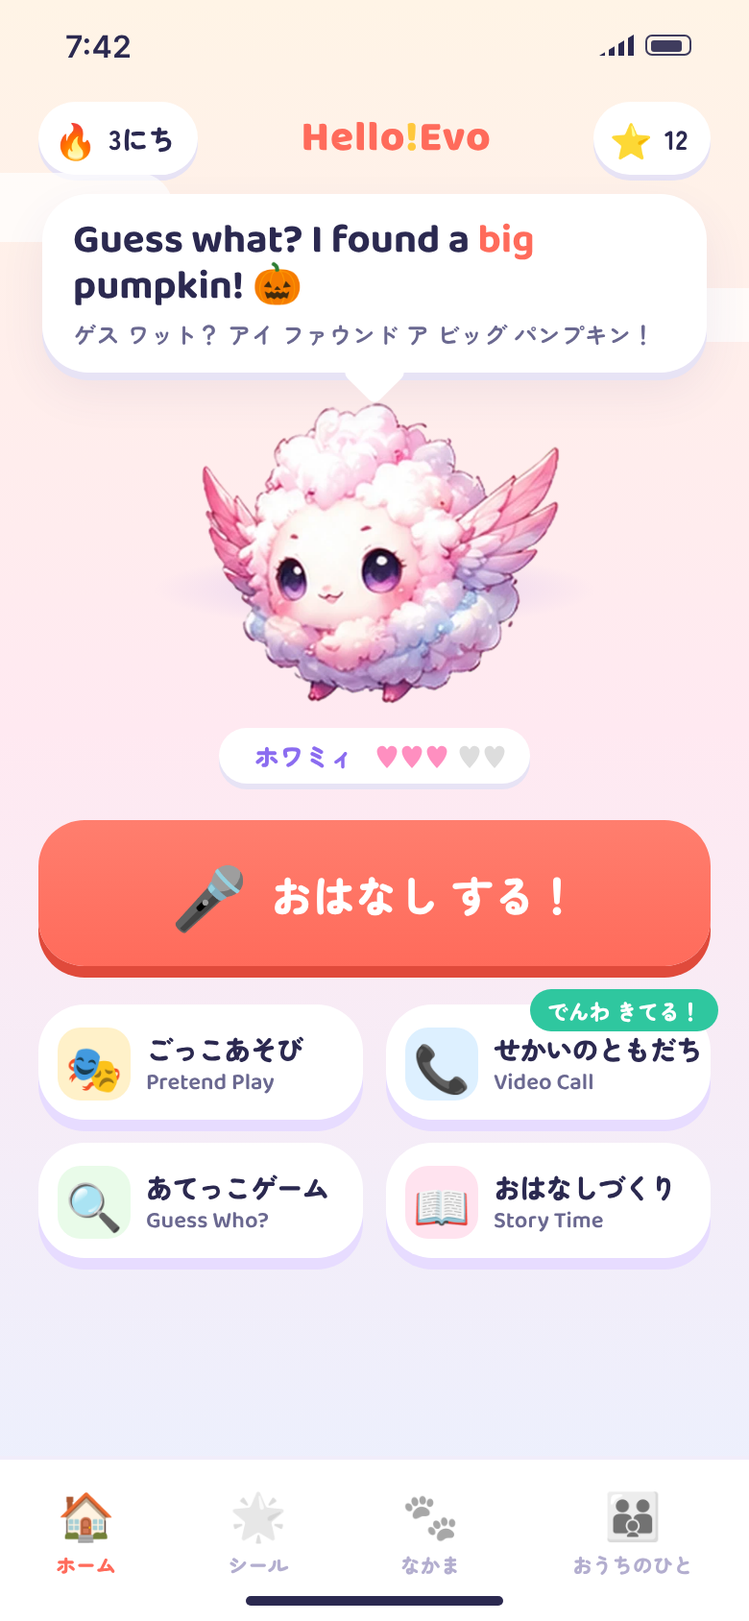
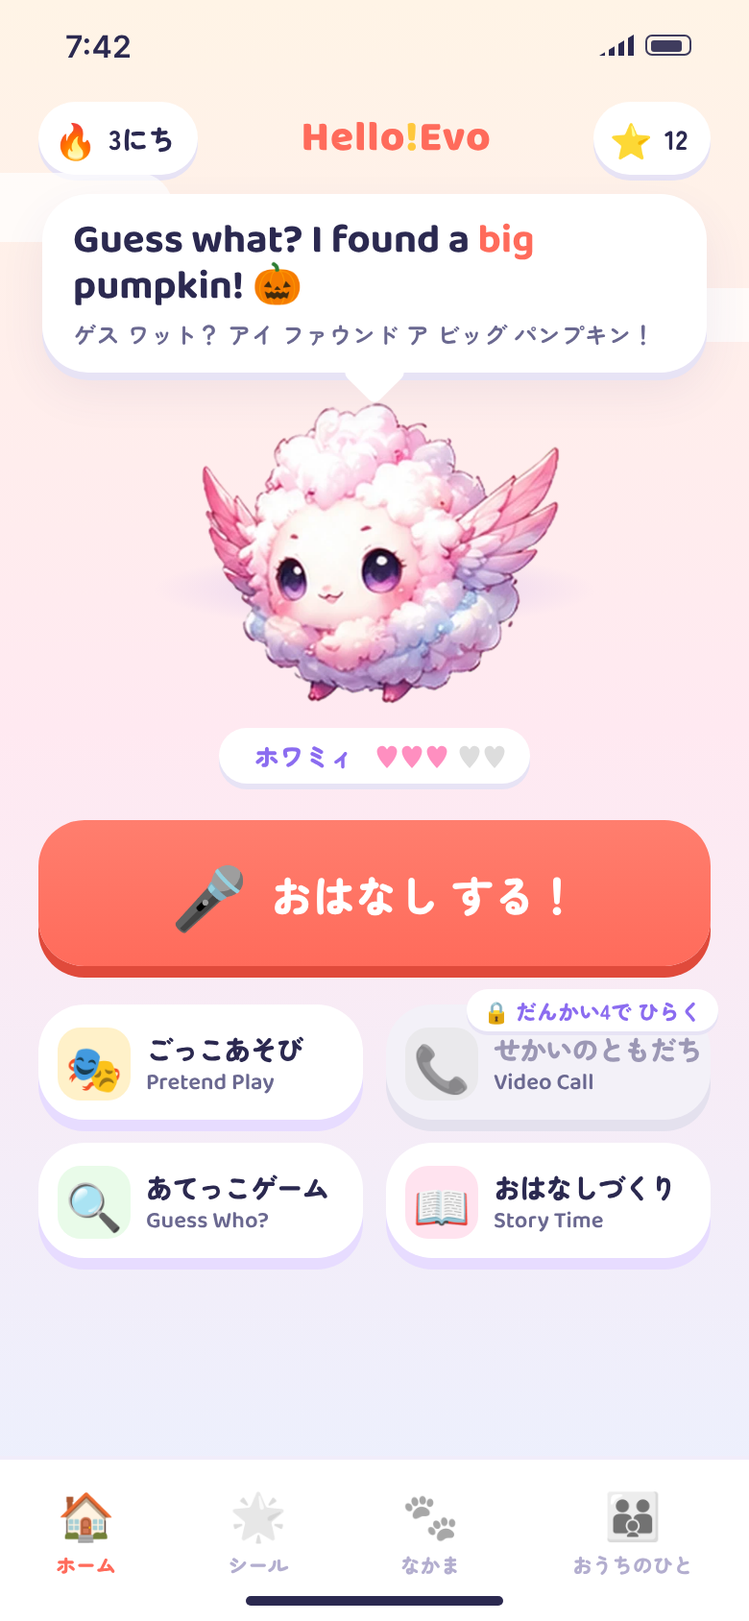
Reflect alignment decisions in concept and mockups
Claude-Session: https://claude.ai/code/session_014T7QHR48QuUwweHniSWVgv

Changed region(s): [[0.6462, 0.5853, 0.9538, 0.6777], [0.5538, 0.6469, 0.6154, 0.6777]]

diff --git a/design/mockups/mockups.html b/design/mockups/mockups.html
@@ -44,9 +44,49 @@ body{background:#1d1b33;font-family:"Zen Maru Gothic",sans-serif;color:var(--ink
 </head>
 <body>
 
+
+<!-- ============ 0. SETUP ============ -->
+<div class="wrap" id="s0">
+<div class="label">⓪ はじめての設定<small>あだなを決めて、相棒をえらぶ</small></div>
+<div class="phone" style="background:linear-gradient(180deg,#FFF4E6 0%,#FFE9F1 50%,#E9F1FF 100%)">
+  <div class="status"><span>7:40</span><span class="r"><i class="sig"></i><i class="bat"></i></span></div>
+  <div style="text-align:center;margin-top:18px">
+    <div style="font:800 34px 'Baloo 2';color:var(--coral);line-height:1">Nice to meet you!</div>
+    <div style="font-weight:900;font-size:16px;margin-top:6px">はじめまして！ なんて よんだら いい？</div>
+  </div>
+  <div style="margin:22px 24px 0;background:#fff;border-radius:24px;padding:16px 18px;box-shadow:0 5px 0 var(--line)">
+    <div style="font-size:12px;font-weight:900;color:var(--ink2)">あだな</div>
+    <div style="display:flex;align-items:center;justify-content:space-between;margin-top:4px">
+      <div style="font-size:30px;font-weight:900">そうちゃん<span style="display:inline-block;width:3px;height:30px;background:var(--coral);vertical-align:middle;margin-left:3px;border-radius:2px"></span></div>
+      <div style="font-size:22px">🔊</div>
+    </div>
+    <div class="en" style="font-size:14px;color:var(--grape);font-weight:700;margin-top:4px">“Hi, Sou-chan! Let's be friends!”</div>
+  </div>
+  <div style="text-align:center;font-weight:900;font-size:16px;margin-top:26px">いっしょに はなす あいぼうを えらぼう</div>
+  <div style="display:grid;grid-template-columns:1fr 1fr;gap:14px;padding:14px 24px 0">
+    <div style="background:linear-gradient(180deg,#FFF0F7,#fff);border-radius:26px;padding:10px 10px 14px;text-align:center;box-shadow:0 6px 0 var(--pink-d);outline:4px solid var(--pink);position:relative">
+      <span class="tag" style="position:absolute;top:-10px;left:50%;transform:translateX(-50%);background:var(--pink);color:#fff">✓ えらんだ</span>
+      <img src="img/m049.webp" style="width:130px;margin-top:6px">
+      <div style="font-weight:900;font-size:18px">ホワミィ</div>
+      <div style="font-size:11.5px;font-weight:700;color:var(--ink2);line-height:1.4">ふわふわ やさしい<br>あまいもの だいすき</div>
+    </div>
+    <div style="background:linear-gradient(180deg,#FFF1E6,#fff);border-radius:26px;padding:10px 10px 14px;text-align:center;box-shadow:0 6px 0 #F0D2BC">
+      <img src="img/m186.webp" style="width:140px;margin-top:2px">
+      <div style="font-weight:900;font-size:18px">ニジリュウガ</div>
+      <div style="font-size:11.5px;font-weight:700;color:var(--ink2);line-height:1.4">げんきな ぼうけんか<br>ちょっと ドジ</div>
+    </div>
+  </div>
+  <div style="font-size:12px;font-weight:700;color:var(--ink2);text-align:center;margin-top:14px">あいぼうは あとから いつでも かえられるよ</div>
+  <div style="padding:20px 24px 0">
+    <div class="press" style="--d:var(--coral-d);background:linear-gradient(180deg,#FF7E6E,var(--coral));color:#fff;height:66px;display:grid;place-items:center;font-weight:900;font-size:20px">はじめる！</div>
+  </div>
+  <div class="homebar"></div>
+</div>
+</div>
+
 <!-- ============ 1. HOME ============ -->
 <div class="wrap" id="s1">
-<div class="label">① ホーム<small>相棒が自分から話しかけてくる。毎回ちがう話題</small></div>
+<div class="label">① ホーム<small>相棒が自分から話しかけてくる。毎回ちがう話題。せかいのともだちは段階4で解放</small></div>
 <div class="phone">
   <div class="cloud" style="width:120px;height:36px;top:90px;left:-30px"></div>
   <div class="cloud" style="width:90px;height:28px;top:150px;right:-20px"></div>
@@ -81,10 +121,10 @@ body{background:#1d1b33;font-family:"Zen Maru Gothic",sans-serif;color:var(--ink
       <div style="flex:none;font-size:24px;width:38px;height:38px;border-radius:12px;background:#FFF1C9;display:grid;place-items:center">🎭</div>
       <div><div style="font-weight:900;font-size:14px;white-space:nowrap;letter-spacing:-.03em">ごっこあそび</div><div class="en" style="font-size:12px;color:var(--ink2);font-weight:600;margin-top:-2px">Pretend Play</div></div>
     </div>
-    <div class="press" style="--d:#E7DCFF;background:#fff;padding:12px 10px 10px;display:flex;gap:8px;align-items:center;position:relative">
-      <div style="flex:none;font-size:24px;width:38px;height:38px;border-radius:12px;background:#DDF0FF;display:grid;place-items:center">📞</div>
+    <div class="press" style="--d:#E4E1EE;background:#F3F1F8;padding:12px 10px 10px;display:flex;gap:8px;align-items:center;position:relative;color:#9C98B5">
+      <div style="flex:none;font-size:24px;width:38px;height:38px;border-radius:12px;background:#E6E3EF;display:grid;place-items:center;filter:grayscale(1);opacity:.6">📞</div>
       <div><div style="font-weight:900;font-size:14px;white-space:nowrap;letter-spacing:-.03em">せかいのともだち</div><div class="en" style="font-size:12px;color:var(--ink2);font-weight:600;margin-top:-2px">Video Call</div></div>
-      <span class="tag" style="position:absolute;top:-8px;right:-4px;background:var(--mint);color:#fff">でんわ きてる！</span>
+      <span class="tag" style="position:absolute;top:-8px;right:-4px;background:#fff;color:var(--grape);box-shadow:0 2px 0 var(--line)">🔒 だんかい4で ひらく</span>
     </div>
     <div class="press" style="--d:#E7DCFF;background:#fff;padding:12px 10px 10px;display:flex;gap:8px;align-items:center">
       <div style="flex:none;font-size:24px;width:38px;height:38px;border-radius:12px;background:#E9FBE9;display:grid;place-items:center">🔍</div>
@@ -108,7 +148,7 @@ body{background:#1d1b33;font-family:"Zen Maru Gothic",sans-serif;color:var(--ink
 
 <!-- ============ 2. TALK ============ -->
 <div class="wrap" id="s2">
-<div class="label">② おしゃべり中<small>言い直しで返す・ヒントはカタカナと絵・大きなマイク</small></div>
+<div class="label">② おしゃべり中<small>言い直しで返す・読みはタップで ひらがな→カタカナ→なし・大きなマイク</small></div>
 <div class="phone" style="background:linear-gradient(180deg,#FFF0E0 0%,#FFE6F0 55%,#F2EBFF 100%)">
   <div class="status"><span>7:44</span><span class="r"><i class="sig"></i><i class="bat"></i></span></div>
   <div class="top" style="padding-top:2px">
@@ -121,7 +161,7 @@ body{background:#1d1b33;font-family:"Zen Maru Gothic",sans-serif;color:var(--ink
     <img src="img/m049.webp" style="width:82px;margin-bottom:-6px">
     <div class="bubble" style="flex:1;padding:10px 14px;border-bottom-left-radius:6px">
       <div class="en" style="font-size:17px;font-weight:700;line-height:1.2">Guess what? I found a big pumpkin! Do you like pumpkins?</div>
-      <div class="kana">ゲス ワット？ アイ ファウンド ア ビッグ パンプキン！ ドゥ ユー ライク パンプキンズ？</div>
+      <div class="kana"><span class="tag" style="background:#F1ECFF;color:var(--grape);padding:1px 7px;margin-right:4px">あ</span>げす わっと？ あい ふぁうんど あ びっぐ ぱんぷきん！ どぅ ゆー らいく ぱんぷきんず？</div>
     </div>
   </div>
 
@@ -136,7 +176,7 @@ body{background:#1d1b33;font-family:"Zen Maru Gothic",sans-serif;color:var(--ink
     <img src="img/m049.webp" style="width:82px;margin-bottom:-6px;transform:rotate(-6deg)">
     <div class="bubble" style="flex:1;padding:10px 14px;border-bottom-left-radius:6px;outline:3px solid #FFD6E7">
       <div class="en" style="font-size:17px;font-weight:700;line-height:1.2"><span style="background:#FFF1B8;border-radius:6px;padding:0 3px">You like Halloween!</span> Me too! What do you want to be?</div>
-      <div class="kana">ユー ライク ハロウィン！ ミー トゥー！ ワット ドゥ ユー ウォント トゥ ビー？</div>
+      <div class="kana"><span class="tag" style="background:#F1ECFF;color:var(--grape);padding:1px 7px;margin-right:4px">ア</span>ユー ライク ハロウィン！ ミー トゥー！ ワット ドゥ ユー ウォント トゥ ビー？</div>
       <div class="ja">ハロウィン好きなんだね！ぼくも！なにになりたい？</div>
       <div style="position:absolute;right:10px;top:-14px;width:32px;height:32px;border-radius:50%;background:var(--grape);color:#fff;display:grid;place-items:center;font-size:15px;box-shadow:0 3px 0 var(--grape-d)">🔊</div>
     </div>
@@ -169,7 +209,7 @@ body{background:#1d1b33;font-family:"Zen Maru Gothic",sans-serif;color:var(--ink
 
 <!-- ============ 3. VIDEO CALL ============ -->
 <div class="wrap" id="s3">
-<div class="label">③ せかいのともだち（でんわ）<small>外国の友だちから電話がくる。ドキドキ感と「通じた！」体験</small></div>
+<div class="label">③ せかいのともだち（段階4で解放）<small>普通に話せるようになったら、外国の友だちから電話がくる</small></div>
 <div class="phone" style="background:radial-gradient(120% 70% at 50% 30%,#3B2B7A 0%,#1E1745 60%,#120E2C 100%);color:#fff">
   <div class="status" style="color:#fff"><span>18:05</span><span class="r"><i class="sig"></i><i class="bat"></i></span></div>
   <div style="position:absolute;inset:0;background-image:radial-gradient(#fff 1px,transparent 1.5px);background-size:46px 46px;opacity:.15"></div>

diff --git a/docs/CONCEPT.md b/docs/CONCEPT.md
@@ -1,123 +1,141 @@
 # mana-evo-english コンセプト
 
-最終更新: 2026-10-17
+最終更新: 2026-10-17（モックアップ確認後の決定を反映）
 
 ## 1. 目的
 
-- 年長の子どもが、**毎日5分ほどモンスターと英語でおしゃべり**して、「単語を言える」から「やりとりができる」へ進むこと
+- 年長の子どもが、**毎日モンスターと英語でおしゃべり**して、「単語を言える」から「やりとりができる」へ進むこと
+- ゴールは「英語って簡単じゃん！外国の人と話してみたい！」と思えるようになること
+- 決まりきったやりとりを毎日こなして点数を稼ぐアプリにはしない。**毎回ちがう、自然な会話**をする
 - 英語が苦手な保護者も、記録と訳を見ながら**一緒に覚えられる**こと
 - mana-evo の英語部分に特化した姉妹アプリとして、モンスターや進捗をつなげていくこと
 
-## 2. 前提
+## 2. 決定事項
 
 | 項目 | 決定 |
 |---|---|
 | 端末 | iPhone（mana-evo と同じ端末）、ホーム画面に追加する PWA |
-| AI | Gemini API **無料枠**。Flash-Lite 系（3.1 Flash-Lite を想定）。モデル名は設定で差し替えられるようにする |
-| 個人情報 | 会話の中身は日常の話題だけ。無料枠の規約（データが改善目的に使われうる）は了承済み。それでも名前・住所・園名などは AI に送らない設計にする |
-| 文字 | 子どもはひらがな・カタカナが読める → ヒントは「絵＋カタカナ読み＋音声」 |
-| mana-evo との関係 | 最初は**モンスター画像を借りるだけ**。Supabase を使ったデータ連携は issue で別途進める |
+| 名前 | リポジトリと URL は `mana-evo-english`。ホーム画面の表示名は短くする（iPhone は長い名前が「…」で切れるため）。案：「マナエボ英語」 |
+| AI | Gemini API **無料枠**。メインは 3.1 Flash-Lite。上限に達したら 3.5 Flash-Lite に切り替え、それも上限なら「きょうは おしまい」 |
+| 1日の上限 | アプリ側では設けない（上のモデル切り替えで自然に止まる） |
+| 個人情報 | 会話は日常の話題だけ。無料枠の規約（データが改善目的に使われうる）は了承済み |
+| モンスター | 可愛い系：**ホワミィ**（m049）／かっこいい最終形：**ニジリュウガ**（m186）。どちらも mana-evo の画像を借りる |
+| あだな | 最初の起動時に子どもの呼び名を決める。モンスターが会話の中で呼ぶ。保護者画面で変更可 |
+| 保護者画面 | mana-evo と同じ、**4桁の PIN** でロック |
+| mana-evo との関係 | 最初はモンスター画像を借りるだけ。Supabase の連携は issue #1 で別途進める |
 
-## 3. 子どもが段階的に進む流れ
+## 3. 子どもが進む段階とアプリのふるまい
 
-1. 聞いて分かる（Yes/No、指差し）
-2. 選んで答える（"Dog or cat?" → "Dog!"）
-3. 単語で答える → AI が文にして言い直す
-4. 決まった言い回しの中身を入れ替える（I like ___ / I want ___ / Can I ___?）
-5. 自分で文を作る
+| 段階 | 子どもの状態 | 日本語で答えたとき | 読みの補助 |
+|---|---|---|---|
+| 1 聞く | Yes/No、指差し | 分かってくれる。返すのは必ず英語 | ひらがな／カタカナ（タップで切替） |
+| 2 選ぶ | "Dog or cat?" → "Dog!" | 同上 | 同上 |
+| 3 単語 | 単語で答える → 文にして言い直してもらう | 同上 | 同上。慣れたら自動で消える（タップで出せる） |
+| 4 型で文 | I like ___ / I want ___ を入れ替える | 同上 | 消える（タップで出せる） |
+| 5 自由に（英検3級くらい〜） | 自分で文を作る | **全部英語**。日本語には英語で聞き返す | 発音記号（タップで出せる） |
 
-アプリは2〜4の段階の繰り返し量を毎日確保することに集中する。
+- 段階は会話の中身（英語で返せた割合、文の長さ）から自動で上がる。保護者画面で手動でも変えられる
+- 読みの補助は、英文の下の小さな行をタップするたびに **ひらがな → カタカナ → なし** と切り替わる。子どもが読みやすい方を選べる
+- 「慣れたら消す」の判定：同じ言い回しを英語で何度か言えたら、その言い回しの読みは最初から隠す
 
-## 4. 会話の作り方：台本＋AIのハイブリッド
+## 4. モード
 
-### 台本（アプリが持つデータ）
+モードはデータで定義して、あとから足していける作りにする（7章）。
 
-- **場面**：あいさつ／好きな動物／朝ごはん／お天気／色／今日なにした？ など
-- 場面ごとに**練習する言い回しを2〜3個**、質問を3〜5個、締めのセリフ
-- ヒント選択肢（絵文字か画像＋英語＋カタカナ読み＋音声）
-- 同じ場面が日を空けて何度も出てくる（言い回しを間隔をあけて復習する）
+| モード | 内容 | 最初のリリース |
+|---|---|---|
+| **おしゃべり** Free Talk | 相棒が自分の出来事や季節の話から話しかけてくる。話題は毎回ちがう | ○ |
+| **ごっこあそび** Pretend Play | お店、空港、おいしゃさんなど。場面 × 役割（お客さん／店員さん）× ハプニングで毎回ちがう展開 | ○ |
+| **あてっこゲーム** Guess Who? | "Is it big?" "Can it fly?" で、相棒が考えている動物やものを当てる（逆もあり）。段階1〜2でも遊べる | ○ |
+| **おはなしづくり** Story Time | 相棒と交代で、1文ずつおはなしを作る | 次の段階 |
+| **せかいのともだち** Video Call | 外国の友だちから電話がくる。ネイティブらしい言い回しやアクセントにふれる | **段階4以上で解放**（普通に話せるようになってからのごほうび） |
+| 親子モード | 親がモンスター役を読む／親子で交代して答える | ○（保護者画面から） |
+| 大人の練習 | 大人向けの場面（仕事、旅行、子どもへの声かけ） | ○（保護者画面から） |
+
+## 5. 会話の作り方：AIが会話し、データが方向づける
+
+自然な会話はAIに任せる。データ（シード）は「何について話すか」の種と、「その子に合った難しさ」だけを決める。
+
+### シード（アプリが持つデータ）
+
+- **話題の種**：季節、相棒の出来事（"I found a big pumpkin!"）、食べもの、動物、あそび、きょうの出来事 など
+- **場面**（ごっこあそび）：場面ごとの役割、ハプニング、使えそうな言い回しの例
+- **相棒の性格**：ホワミィ（ふわふわ、やさしい、甘いもの好き）／ニジリュウガ（元気、冒険好き、ちょっとドジ）
+- **段階ごとの話し方のルール**：文の長さ、質問の形（選択式／オープン）、日本語への対応
 
 ### AI の役割（Gemini）
 
 - 子どもの返事（音声）を聞き取る。単語だけ、日本語混じり、発音があいまいでもOK
-- **言い直して返す**（間違いだと言わず、正しい英語で言い返す）
-  - 子「どっぐ！」→ "Oh, you like **dogs**! Me too! What color is your dog?"
-- 台本の次の質問へ自然につなぐ。話題がそれたら優しく戻す
+- **言い直して返す**（間違いと言わず、正しい英語で言い返す）
+  - 子「きょうりゅう！」→ "Oh, you want to be **a dinosaur**! Roar! That's so cool!"
+- 話題がそれても、子どもの興味についていく（自然な会話を優先）
+- **相棒の記憶**：子どもが話したこと（好きなもの、なりたいもの、出来事）を少しずつ覚えて、次の会話で聞いてくる
 - 応答は JSON で受け取る：
 
 ```json
 {
-  "child_said": "dog",
-  "reply_en": "Oh, you like dogs! Me too! What color is your dog?",
-  "reply_ja": "犬が好きなんだね！ぼくも！きみの犬は何色？",
-  "used_target": true,
-  "next_step": "ask_color",
-  "hint_options": [
-    { "en": "brown", "kana": "ブラウン", "emoji": "🟤" },
-    { "en": "white", "kana": "ホワイト", "emoji": "⚪" }
-  ]
+  "child_said": "きょうりゅう",
+  "child_lang": "ja",
+  "reply_en": "Oh, you want to be a dinosaur! Roar! What color is your dinosaur?",
+  "reply_kana": "オー、ユー ウォント トゥ ビー ア ダイナソー！ ロアー！ ...",
+  "reply_ipa": "",
+  "reply_ja": "恐竜になりたいんだね！ガオー！きみの恐竜は何色？",
+  "recast": "I want to be a dinosaur.",
+  "spoke_english": false,
+  "memory": ["wants to be a dinosaur"],
+  "hints": [
+    { "en": "green", "kana": "グリーン", "emoji": "🟢" },
+    { "en": "red", "kana": "レッド", "emoji": "🔴" }
+  ],
+  "end": false
 }
 ```
 
-- 毎回送るのは「場面の指示＋今日の言い回し＋直近3〜4往復」だけ。トークン数を小さく抑える
+- 毎回送るのは「モード・シード・段階のルール・相棒の記憶・直近の数往復」だけ
 
-### AI が使えないとき
+### 上限に達したとき
 
-- 無料枠の上限、通信エラー、タイムアウトのときは**台本だけで進むモード**に自動で切り替える（ヒントボタンを選んで進む）
-- 子どもの体験が止まらないことを優先する
-
-## 5. 無料枠で回すための設計
-
-- 1回の会話は**最大およそ15往復**、1日の回数にも上限を設定する（値は設定で変えられる）
-  - 無料枠の1日あたり・1分あたりのリクエスト数制限は Google AI Studio で最新の値を確認し、それより十分小さく設定する
-- 音声は「おしてはなす」で区切った短い録音だけを送る（長くても5〜8秒程度）
-- **APIキーはアプリ内に置かない**。Supabase Edge Function を中継に使い、キーは Edge Function の secret に置く
-  - 中継は Supabase のログイン（JWT）がある人だけ使える → 他人に無料枠を使われない
-  - 中継側でも1日の上限を数えて超えたら止める
+1. 3.1 Flash-Lite が上限（429）→ 自動で 3.5 Flash-Lite に切り替えて続ける
+2. 3.5 Flash-Lite も上限 → 相棒が眠そうに「きょうは おしまい。また あした！」で終了
+3. 通信エラーやタイムアウトは、もう一度話してもらう案内を出す
 
 ## 6. 声まわり（iPhone PWA）
 
 | | 方針 |
 |---|---|
-| 聞き取り | `MediaRecorder` で録音 → 音声をそのまま Gemini へ。聞き取りと返事作りを1回で済ませる |
-| 読み上げ | まず iOS 標準の英語音声（Web Speech API の speechSynthesis）。物足りなければ piper の英語モデルを端末内で使う（mana-evo のつくよみちゃんと同じ仕組み） |
-| 操作 | 画面下に大きな「おしてはなす」ボタン |
-| 注意 | iOS の PWA はマイク許可やオーディオの再生開始にユーザー操作が必要。最初の画面で一度タップしてもらう |
+| 聞き取り | 「おしながら はなす」で録音（16kHz の WAV）→ そのまま Gemini へ。聞き取りと返事作りを1回で済ませる |
+| 読み上げ | iOS 標準の英語音声（speechSynthesis）。相棒ごとに声の高さと速さを変える。段階が低いほどゆっくり |
+| 文字入力 | 大人の練習や、声が出しにくいとき用にキーボード入力も用意 |
+| 注意 | iOS の PWA はマイク許可や音の再生開始にタップが必要。最初の画面で一度タップしてもらう |
 
-## 7. 続けたくなる仕掛け
+## 7. バリエーションを増やす仕組み
 
-- **mana-evo のモンスターが話し相手**。「英語の国から来た」という設定で、話すほど「なかよし度」が上がる
-- 1回3〜5分で終わる
-- 「今日言えたフレーズ」をシールとして集める
-- その日に話した相手モンスターをシール帳に残す
+- モード、話題の種、場面、ハプニング、相棒の性格を **データファイル** で持つ
+- 会話の指示文はこれらを組み合わせて毎回作る → 組み合わせの数だけ会話が変わる
+- 新しい場面を足すときは、データを1つ追加するだけでよい
+- 新しい相棒も、mana-evo の画像と性格データを足せば増やせる（Supabase 連携後は、mana-evo で捕まえたモンスターから選べるようにする）
 
-## 8. 保護者の機能
+## 8. 続けたくなる仕掛け
 
-- **保護者画面**：会話ログ（英語＋日本語訳）、今日言えたこと、練習中の言い回し
-- **おうち英語カード**：今日の言い回しと、親が家で使えるひとこと
-- **親子モード**：親がモンスター役のセリフを読む／親子交代で答える
-- **大人モード**：同じ仕組みで大人向けの場面（仕事、旅行、子どもへの声かけ）の会話練習
+- 相棒が**自分から話しかけてくる**（毎回ちがう話題）
+- 相棒が**子どもの話を覚えていて**、次に聞いてくる
+- 「なかよし度」が上がる
+- 「きょう いえた えいご」を褒める。はじめて言えた表現には印がつく
+- シールを集める
 
-## 9. mana-evo との連携（段階的に）
+## 9. 保護者の機能
 
-1. **今回**：mana-evo のモンスター画像を借りて話し相手にする（mana-evo 側は変更しない）
-2. **次の段階**（issue で管理）：Supabase `app-save-hub` を通したデータ連携
-   - `app_saves` は `user_id + app_id + slot_id` で分かれているので、同じアカウントでログインすれば英語アプリが mana-evo のセーブ（手持ちモンスターなど）を**読むだけ**で使える
-   - 英語アプリは自分の `app_id` に進捗を書き込む
-   - 会話のごほうびを mana-evo に渡す場合は、mana-evo 側の仕様変更として先に合意してから実装する（mana-evo の方針どおり）
+- **会話ログ**（英語＋日本語訳、英語で返せたか／日本語を言い直してもらったか）
+- **いまの段階**と、手動での変更
+- **おうち英語カード**：今日の会話から、家で使えるひとこと
+- **親子モード**、**大人の練習**
+- あだなの変更、PIN の変更
 
-## 10. 最初に作るもの（MVP）
+## 10. 技術構成
 
-1. 場面5つ × 言い回し各3つの台本データ
-2. モンスター1体との会話画面（録音 → Edge Function → Gemini → 返事を読み上げ。ヒントボタンつき）
-3. 今日言えたフレーズの記録（まずは端末内に保存）と、保護者向けの訳表示
-4. AI が使えないときの台本モード
-5. PWA 化（ホーム画面に追加、オフラインでも台本モードは動く）
-
-1〜2週間子どもに使ってもらい、反応を見てから場面や機能を広げる。
-
-## 11. 技術構成（案）
-
-- フロント：Vite + 素の JS または React（mana-evo に合わせる）、Vercel にデプロイ
-- 中継：Supabase Edge Function `english-talk`（Gemini 呼び出し、回数上限）
-- 保存：最初は端末内、連携の段階で `app-save-hub` に `app_id = "mana-evo-english"` で保存
+- フロント：Vite + React（mana-evo に合わせる）、PWA、Vercel にデプロイ
+- 中継：Supabase Edge Function `english-talk`（app-save-hub プロジェクト）
+  - Gemini の API キーは Edge Function の secret に置き、アプリには入れない
+  - ログイン（mana-evo と同じアカウント、メールとパスワード）した人だけが使える
+  - モデルの切り替え（3.1 → 3.5 → おしまい）も中継側で行う
+- 保存：最初は端末内。連携の段階で `app-save-hub` に `app_id = "mana-evo-english"` で保存（issue #1）
